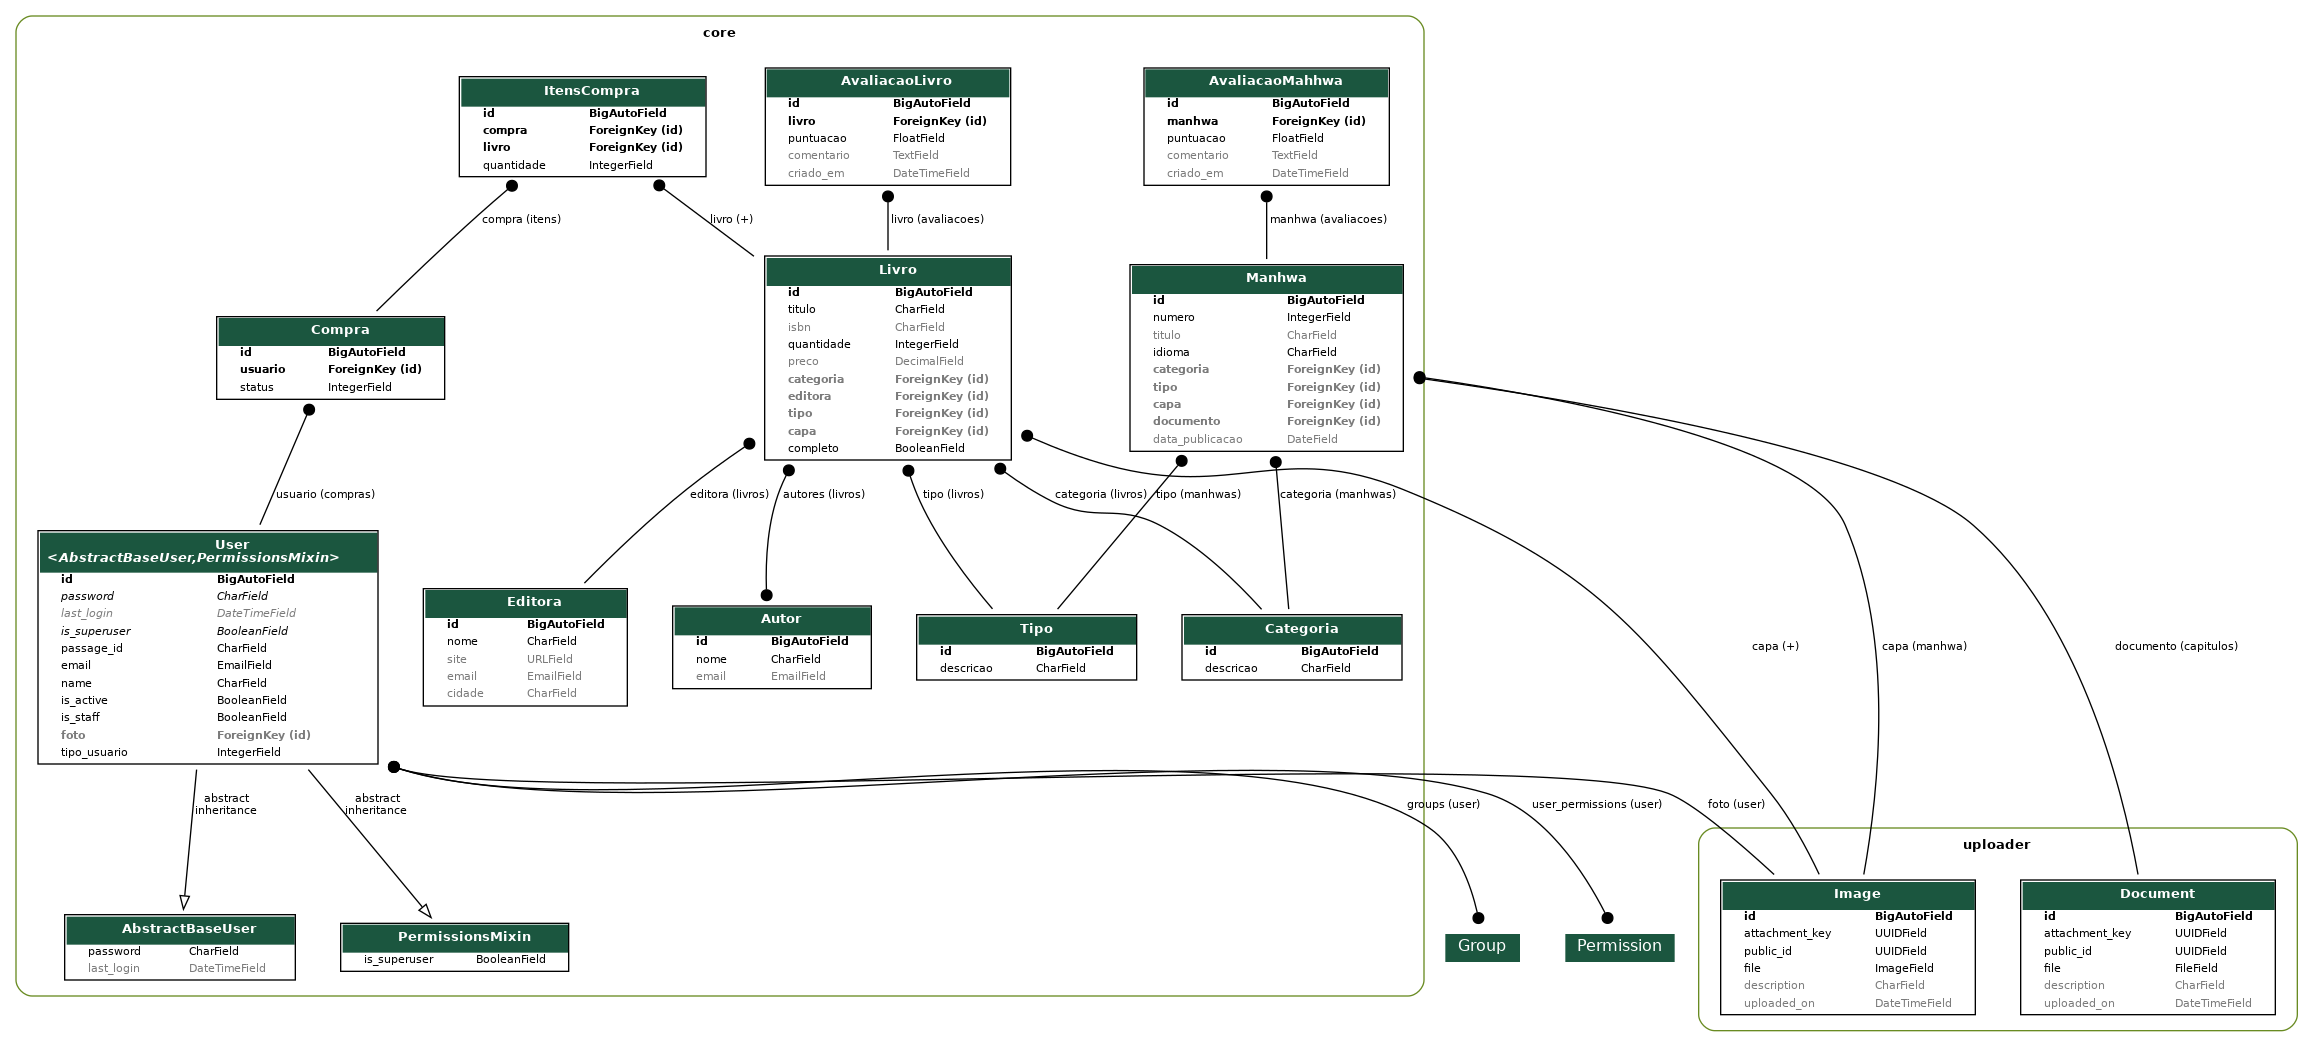
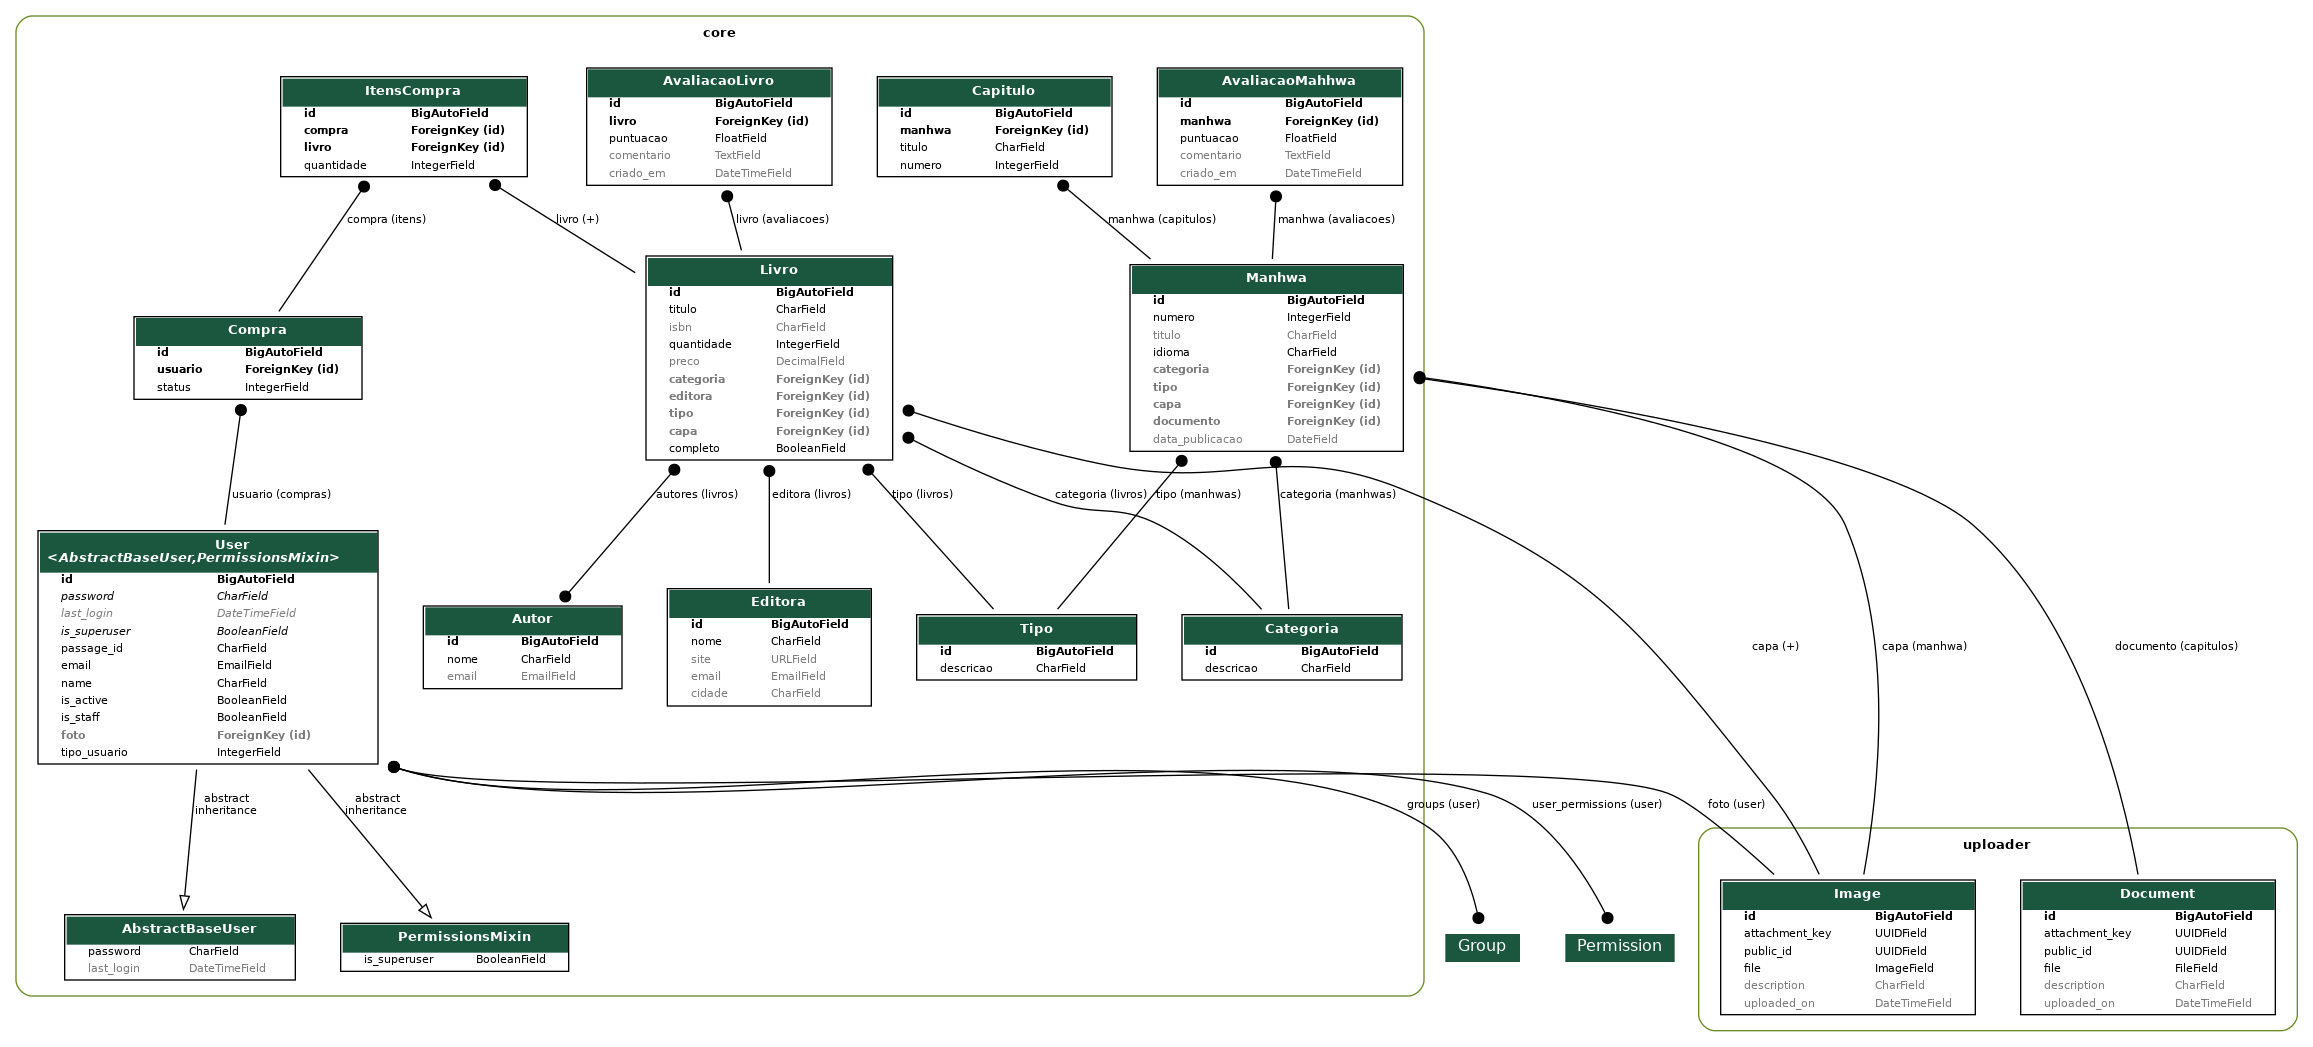
Manhwas

diff --git a/core/serializers/manhwa.py b/core/serializers/manhwa.py
@@ -5,7 +5,7 @@ from rest_framework.serializers import (
 )
 from uploader.models import Image
 from uploader.serializers import ImageSerializer
-from core.models import Manhwa, AvaliacaoMahhwa
+from core.models import Manhwa, AvaliacaoMahhwa, Capitulo
 
 
 class ManhwaSerializer(ModelSerializer):
@@ -16,46 +16,45 @@ class ManhwaSerializer(ModelSerializer):
         required=False,
         write_only=True,
     )
-    capa_url = SerializerMethodField()  # URL da capa
-    calificacion_prom = SerializerMethodField()  # Média de avaliações
+    capa_url = SerializerMethodField()
+    calificacion_prom = SerializerMethodField()
+    numero_capitulos = SerializerMethodField()  # Novo campo: número de capítulos
 
     class Meta:
         model = Manhwa
-        fields = ("id", "titulo", "tipo", "capa_url", "calificacion_prom")
+        fields = ("id", "titulo", "tipo", "capa_url", "calificacion_prom", "numero_capitulos")
 
     def get_capa_url(self, obj):
-        """
-        Retorna a URL da capa se existir.
-        """
         if obj.capa:
             return obj.capa.url
         return None
 
     def get_calificacion_prom(self, obj):
-        """
-        Retorna a média de avaliações do manhwa.
-        """
         avaliacoes = AvaliacaoMahhwa.objects.filter(manhwa=obj)
         if avaliacoes.exists():
             promedio = sum(avaliacao.puntuacao for avaliacao in avaliacoes) / avaliacoes.count()
             return round(promedio, 2)
         return None
 
+    def get_numero_capitulos(self, obj):
+        """
+        Retorna o número de capítulos associados ao manhwa.
+        """
+        return obj.capitulos.count()
+
 
 class ManhwaDetailSerializer(ModelSerializer):
     capa = ImageSerializer(required=False)
-    calificacion_prom = SerializerMethodField()  # Média de avaliações
-    tipo = SerializerMethodField()  # Inclui o campo 'tipo'
+    calificacion_prom = SerializerMethodField()
+    tipo = SerializerMethodField()
+    numero_capitulos = SerializerMethodField()  # Número de capítulos
 
     class Meta:
         model = Manhwa
-        fields = ("id", "titulo", "tipo", "capa", "calificacion_prom", "descricao")
+        fields = ("id", "titulo", "tipo", "capa", "calificacion_prom", "descricao", "numero_capitulos")
         depth = 1
 
     def get_calificacion_prom(self, obj):
-        """
-        Retorna a média de avaliações do manhwa.
-        """
         avaliacoes = AvaliacaoMahhwa.objects.filter(manhwa=obj)
         if avaliacoes.exists():
             promedio = sum(avaliacao.puntuacao for avaliacao in avaliacoes) / avaliacoes.count()
@@ -63,34 +62,38 @@ class ManhwaDetailSerializer(ModelSerializer):
         return None
 
     def get_tipo(self, obj):
-        """
-        Retorna o tipo do manhwa.
-        """
         return obj.tipo if obj.tipo else "Desconhecido"
+
+    def get_numero_capitulos(self, obj):
+        """
+        Retorna o número de capítulos associados ao manhwa.
+        """
+        return obj.capitulos.count()
 
 
 class ManhwaListSerializer(ModelSerializer):
     capa_url = SerializerMethodField()
     calificacion_prom = SerializerMethodField()
+    numero_capitulos = SerializerMethodField()  # Novo campo: número de capítulos
 
     class Meta:
         model = Manhwa
-        fields = ("id", "titulo", "tipo", "capa_url", "calificacion_prom")
+        fields = ("id", "titulo", "tipo", "capa_url", "calificacion_prom", "numero_capitulos")
 
     def get_capa_url(self, obj):
-        """
-        Retorna a URL da capa se existir.
-        """
         if obj.capa:
             return obj.capa.url
         return None
 
     def get_calificacion_prom(self, obj):
-        """
-        Retorna a média de avaliações do manhwa.
-        """
         avaliacoes = AvaliacaoMahhwa.objects.filter(manhwa=obj)
         if avaliacoes.exists():
             promedio = sum(avaliacao.puntuacao for avaliacao in avaliacoes) / avaliacoes.count()
             return round(promedio, 2)
         return None
+
+    def get_numero_capitulos(self, obj):
+        """
+        Retorna o número de capítulos associados ao manhwa.
+        """
+        return obj.capitulos.count()

diff --git a/core/migrations/0028_capitulo.py b/core/migrations/0028_capitulo.py
@@ -1,0 +1,28 @@
+# Generated by Django 5.1.3 on 2024-12-17 19:48
+
+import django.db.models.deletion
+from django.db import migrations, models
+
+
+class Migration(migrations.Migration):
+
+    dependencies = [
+        ("core", "0027_alter_avaliacaomahhwa_puntuacao"),
+    ]
+
+    operations = [
+        migrations.CreateModel(
+            name="Capitulo",
+            fields=[
+                ("id", models.BigAutoField(auto_created=True, primary_key=True, serialize=False, verbose_name="ID")),
+                ("titulo", models.CharField(max_length=255)),
+                ("numero", models.IntegerField()),
+                (
+                    "manhwa",
+                    models.ForeignKey(
+                        on_delete=django.db.models.deletion.CASCADE, related_name="capitulos", to="core.manhwa"
+                    ),
+                ),
+            ],
+        ),
+    ]

diff --git a/core/models/manhwa.py b/core/models/manhwa.py
@@ -68,3 +68,11 @@ class AvaliacaoMahhwa(models.Model):
 
     def __str__(self):
         return f"Avaliação de {self.manhwa.titulo} - {self.puntuacao} estrelas"
+
+class Capitulo(models.Model):
+    manhwa = models.ForeignKey(Manhwa, on_delete=models.CASCADE, related_name="capitulos")
+    titulo = models.CharField(max_length=255)
+    numero = models.IntegerField()
+
+    def __str__(self):
+        return f"Capítulo {self.numero}: {self.titulo}"

diff --git a/core/models/__init__.py b/core/models/__init__.py
@@ -4,5 +4,5 @@ from .editora import Editora
 from .autor import Autor
 from .livro import Livro, AvaliacaoLivro
 from .tipo import Tipo
-from .manhwa import Manhwa, AvaliacaoMahhwa
+from .manhwa import Manhwa, AvaliacaoMahhwa, Capitulo
 from .compra import Compra, ItensCompra
